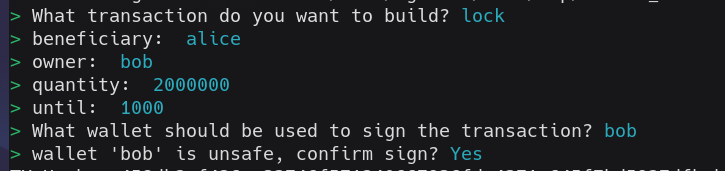
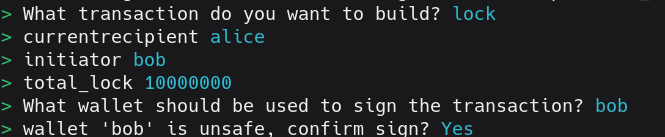
update README

diff --git a/README.md b/README.md
@@ -1,8 +1,8 @@
-# Vesting example
+# Vault example
 
-A vesting contract is a common type of contract that allows funds to be locked for a period of time and unlocked later—once a specified time has passed. Typically, a vesting contract defines a beneficiary who may be different from the original owner.
+A vault contract, also known as Escrow, is a common type of contract that allows funds to be locked for one or more recipients. The conditions for the release of these funds are business-specific and can be very flexible.
 
-In this example, an Owner address locks tAda that will be available for unlocking some time after the initial locking transaction, by either the Beneficiary stated in the datum or the Owner.
+In this example, an Initiator address locks tAda and chooses a Recipient, who is allowed to claim up to half of the funds in the Vault and is also allowed to set a new Recipient.
 
 ## Folder structure
 
@@ -22,11 +22,15 @@ In this example, an Owner address locks tAda that will be available for unlockin
 ```
 
 
-In typical dApp fashion, there is an offchain and an onchain. In the `offchain` directory, we have the code related to building, signing and submitting the locking and unlocking transactions. In the `onchain` directory, we have the validator code that will be used to verify that the transaction is correct on the blockchain.
+In typical dApp fashion, there is an offchain and an onchain. In the `offchain` directory, we have the code related to building **lock** and **claim** transactions. In the `onchain` directory, we have the validator code that will be used to verify that the transaction is correct on the blockchain.
 
 ## Setup for the demo
 
 To run this example we need the toolchain of tx3. You can set everything up following the [tx3up Quick Start Guide][1].
+Once this is done, run the bash script at the root of the repository to install the necessary versions:
+```bash
+$> bash setup.sh
+```
 The validator compiled code is already included, but to make modifications, you'll need to install [Aiken][2].
 
 We'll be running everything sitting in the [`src`](./) folder.
@@ -42,17 +46,7 @@ $> trix explore
 
 You're now ready to start submitting transactions!.
 
-<!-- 
-We also need to make a `.env` file in the [`offchain` directory](./offchain/), with the following keys: -->
-<!-- 
-```shell
-BENEFICIARY = "addr_test1..."
-SEED_BENEFICIARY = "fade buddy legend ..."
-``` -->
-
-<!-- The `BENEFICIARY` key corresponds to a Cardano address, and the `SEED_BENEFICIARY` is the seed phrase for the Beneficiary. -->
-
-## Lock vesting
+## Lock in vault
 
 In a different terminal, run the following command to lock funds in the Vesting contract:
 
@@ -61,10 +55,9 @@ $> trix invoke
 ```
 
 Select the `lock` transaction providing the following parameters:
-* **beneficiary**: alice
-* **owner**: bob
-* **quantity**: 2000000
-* **until**: 120000 (2 minutes)
+* **currentrecipient**: alice
+* **initiator**: bob
+* **total_lock**: 10000000
 
 Whose wallet do you think must be used for signing the transaction?.
 
@@ -74,7 +67,7 @@ If everything was done correctly, your CLI should look like this:
 
 That's it! Now you can go to the terminal running the devnet explorer to see your transaction.
 
-## Unlock a Vesting
+## Claim half
 Go to the Transactions tab in the devnet explorer. You should see one transaction only. Hit Enter to see the details of the tx.
 Copy the hash next to the "tx" field, we'll need that to unlock the funds (let's call that LOCKED_UTXO)
 Once again, run:
@@ -82,13 +75,15 @@ Once again, run:
 $> trix invoke
 ```
 
-Select the `unlock` transaction providing the following parameters:
-* **beneficiary**: alice
-* **locked**: LOCKED_UTXO#0
+Select the `claim` transaction providing the following parameters:
+* **current_amount**: 5000000
+* **currentrecipient**: alice
+* **nextrecipient**: charli
+* **vault_ref**: LOCKED_UTXO#0
 
 Your CLI should look like this:
 
-![CLI unlock](./img/cli-unlock.png)
+![CLI unlock](./img/cli-claim.png)
 
 ## Resources
 